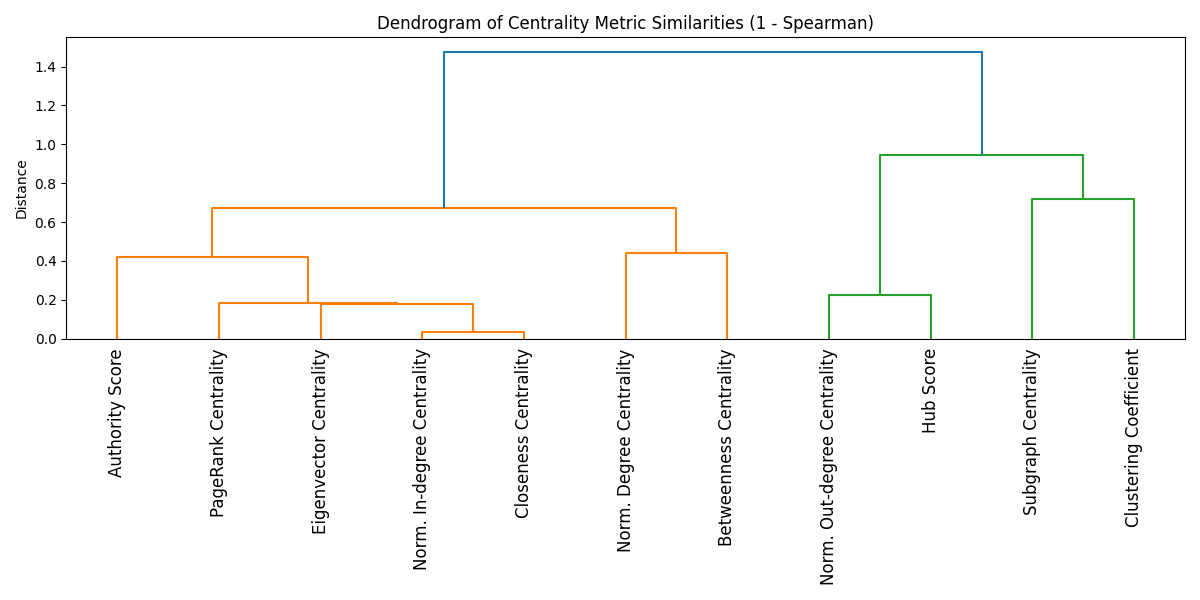
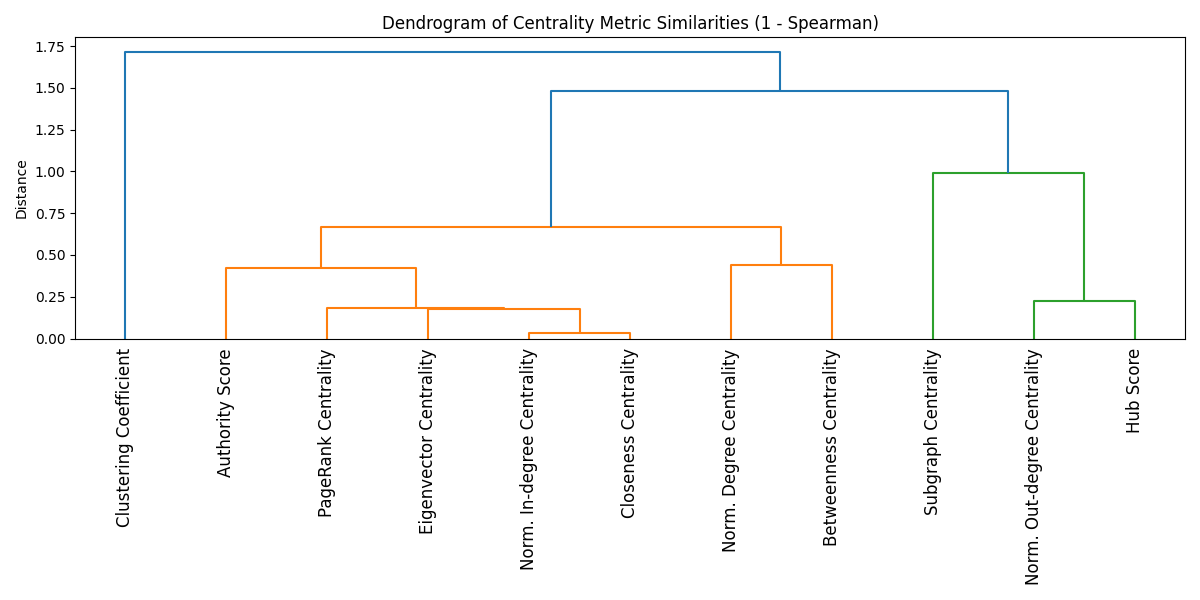
fix: order the clustering coefficient ascending

diff --git a/Scripts/ranks.py b/Scripts/ranks.py
@@ -28,6 +28,8 @@ centrality_df = df[centrality_cols]
 
 # === Rank data for each centrality ===
 ranked_df = centrality_df.rank(axis=0, method='average')
+ranked_df["Clustering Coefficient"] = centrality_df["Clustering Coefficient"].rank(ascending=False,
+                                                         method="average")
 
 # === 1. Spearman Correlation ===
 spearman_corr = ranked_df.corr(method='spearman')
